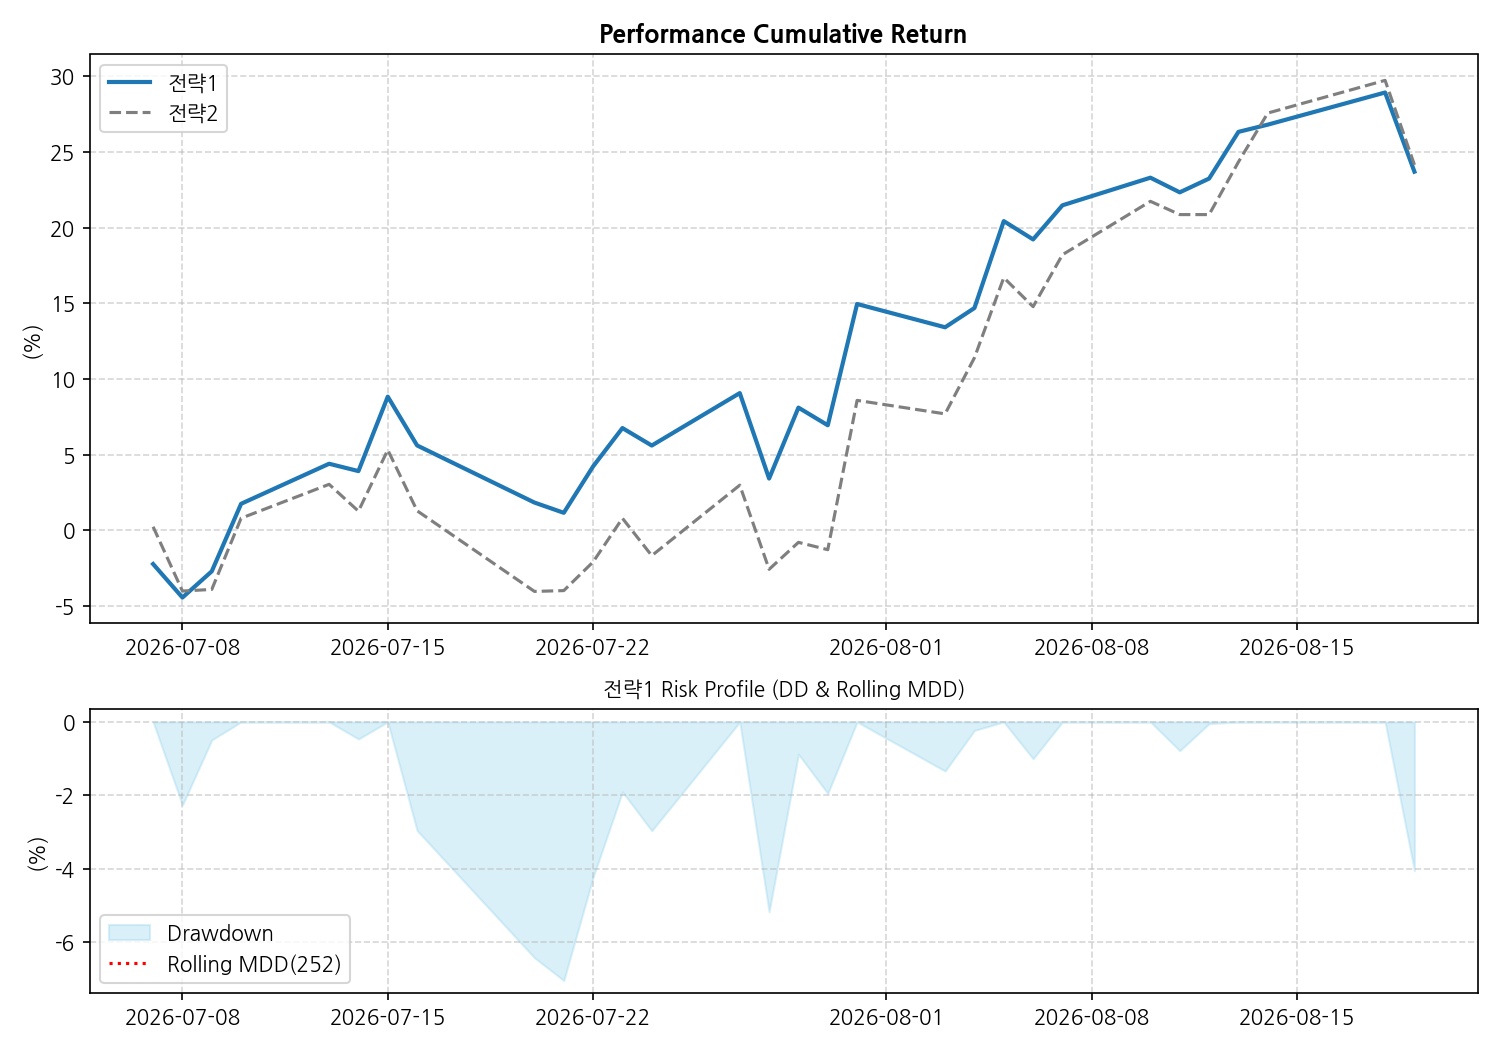
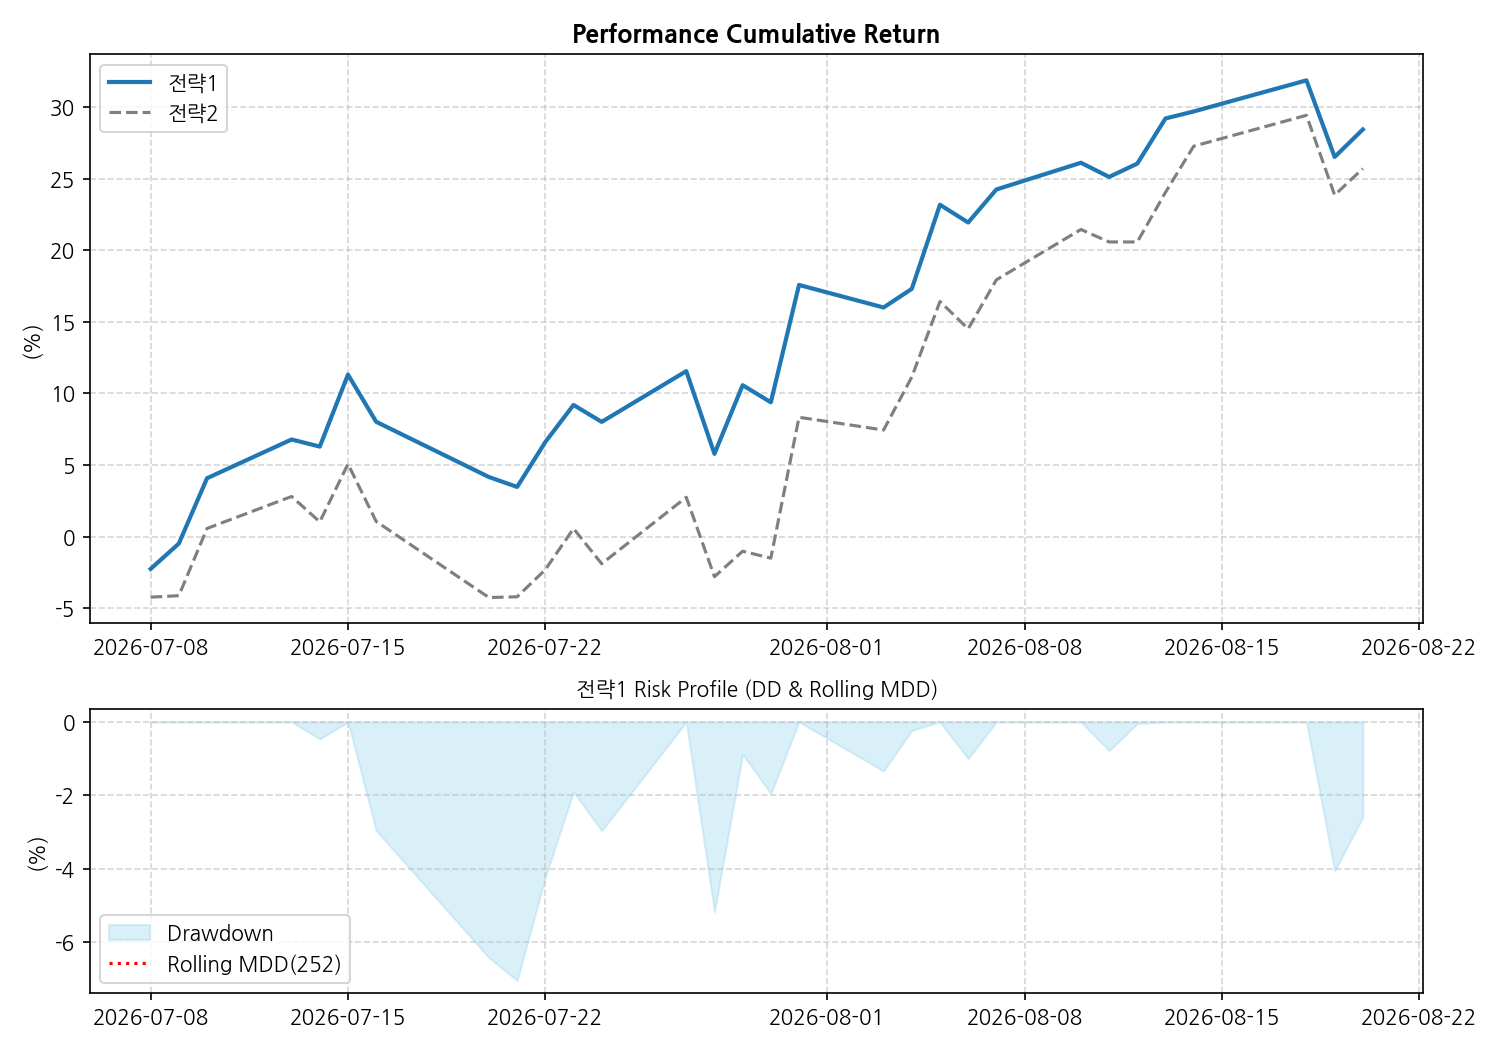
Auto commit

diff --git a/_pages/bt/st_stock_future.md b/_pages/bt/st_stock_future.md
@@ -2,7 +2,7 @@
 layout: post
 title: "BT, 주식선물"
 author: Best Investor
-date: 2026-08-19
+date: 2026-08-21
 category: BT
 mermaid: true
 parent: 포트폴리오
@@ -15,14 +15,14 @@ parent: 포트폴리오
 
 | 지표 | 전략 1 (S1) | 전략 2 (S2) | 차이 (Diff) |
 | :--- | :---: | :---: | :---: |
-| **오늘 수익률** | -4.06% | -4.31% | 0.25% |
-| **30일 수익률** | 23.7% | 24.15% | -0.45% |
-| **1년 수익률** | 221.92% | 393.51% | -171.59% |
-| **전체 수익률** | 1000.63% | 1817.63% | -817.0% |
+| **오늘 수익률** | 1.52% | 1.49% | 0.03% |
+| **30일 수익률** | 28.45% | 25.72% | 2.73% |
+| **1년 수익률** | 227.8% | 407.89% | -180.09% |
+| **전체 수익률** | 1017.35% | 1846.25% | -828.9% |
 | **MDD (1Y)** | -9.56% | -12.67% | 3.11%p |
 | **MDD (ALL)** | **-10.63%** | **-16.06%** | 5.43%p |
-| **샤프 (1Y)** | 4.03 | 3.67 | 0.36 |
-| **샤프 (ALL)** | **2.94** | **2.52** | 0.42 |
+| **샤프 (1Y)** | 4.09 | 3.74 | 0.35 |
+| **샤프 (ALL)** | **2.96** | **2.53** | 0.43 |
 
 ## 📉 누적 성과 및 리스크 차트
 1. **최근 30일:** ![30일](/img_st/bt_stockfuture_cum_risk_30d.png)

diff --git a/_posts/theme/2026-04-01-theme.md b/_posts/theme/2026-04-01-theme.md
@@ -6,6 +6,9 @@ date: 2026-04-01
 category: Jekyll
 ---
 
+## 2026-08-21
+![image](/img/2026-08-21.jpg)
+
 ## 2026-08-20
 ![image](/img/2026-08-20.jpg)
 
